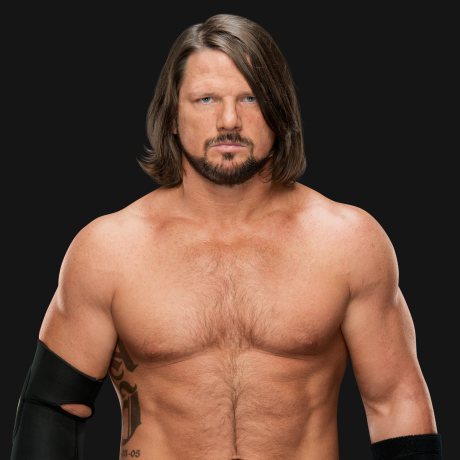
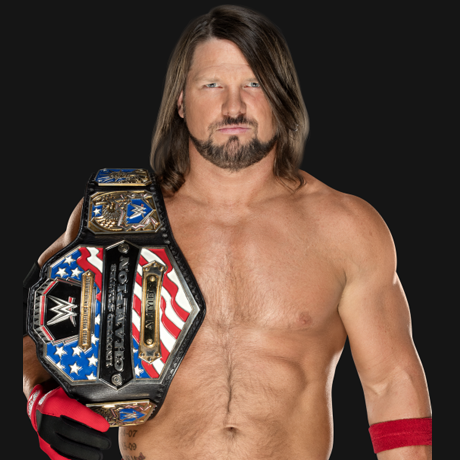
Correção de Bugs e foto nova do AJ Styles + Smackdown e Raw semana 24/07

diff --git a/app/Http/Controllers/MarketController.php b/app/Http/Controllers/MarketController.php
@@ -203,7 +203,7 @@ class MarketController extends Controller
                                 ['last_show',1]
                             ])->value('points');
 
-                            $last_points = $ult_pontos + $pontos;
+                            $last_points = $pontos;
                             DB::table('superstars')->where([
                                 ['id',$i],
                                 ['brand',$brand],
